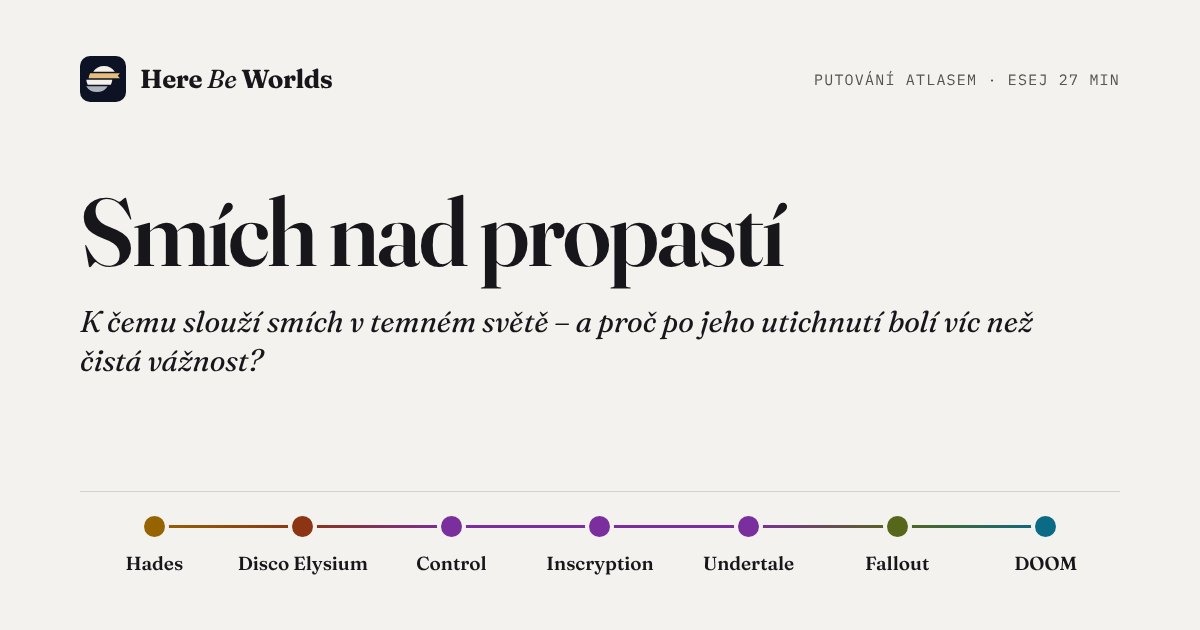
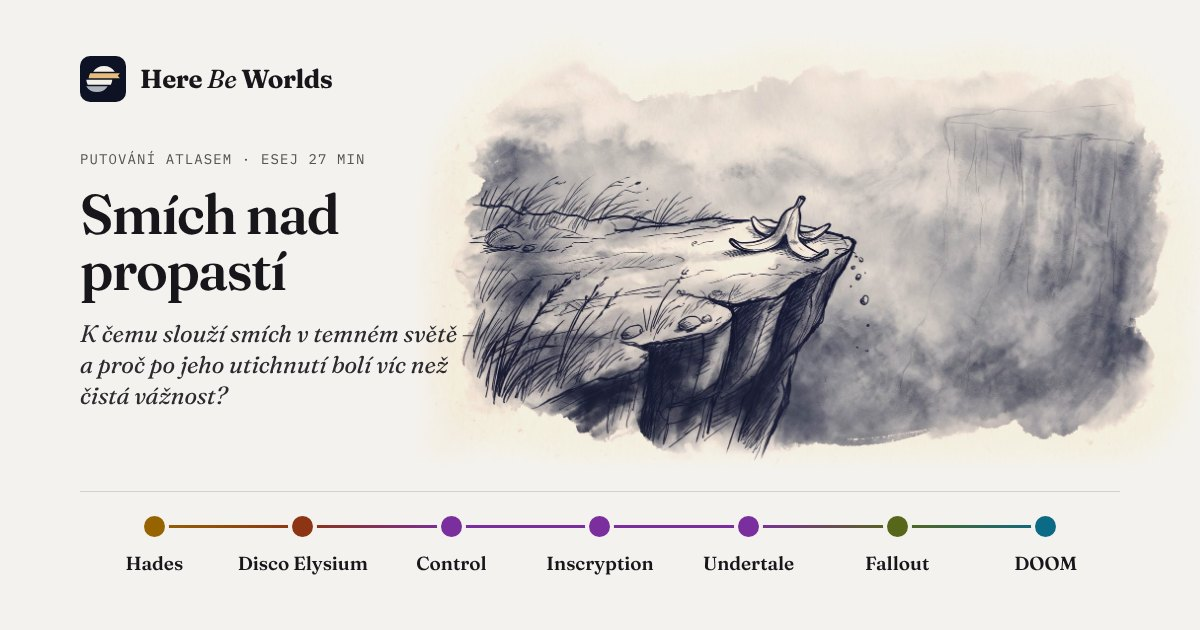
Obrázky k putování Smích nad propastí (zatím dva): banánová slupka nad propastí, ostnatý plot s girlandami; pravidlo proti ujíždění stylu v docs
Claude-Session: https://claude.ai/code/session_01B7obWLKHHEWxurZ5a1svnf

diff --git a/src/lib/trail-images.ts b/src/lib/trail-images.ts
@@ -27,6 +27,7 @@ export const READY: Record<TrailId, number> = {
   'free-will': 3,
   'failed-paradise': 3,
   corporate: 3,
+  laughter: 2,
 };
 
 const DIR = 'putovani-obrazky';

diff --git a/docs/obrazky-putovani.md b/docs/obrazky-putovani.md
@@ -11,8 +11,9 @@ Stav 2026-11-23: styl nalezený po pěti kolech zkoušek (náhled `/putovani/nav
 - **Jedna myšlenka, malý předmět (majitel 2026-11-23, po nepovedeném kole Uvězněni v kruhu):** velké přeplněné scény (had s průvodem poutníků, nekonečné schodiště, ptačí klec se světem, koleje s planetami) majitel zamítl jako tematicky nesevřené a „poznat, že je to AI“. Nosná je jedna myšlenka na jednom malém předmětu nebo polocelku (vzor: kamenné víčko, žebřík opřený o nebe, gramofon). Vedlejší motivy jen tam, kde tvoří hlavní tvar (most z kořenů, copů a prádla), ne jako zástup figurek a symbolů.
 - **Víc motivů k objevování:** hlavní tvar ať je složený z několika nečekaných předmětů, které člověk objeví až při delším pohledu (vzor: most z dlažby, kořenů, copů a šňůr s prádlem; majitel 2026-11-23). Jen když dávají jednomu tvaru smysl, nikdy jako výčet symbolů tématu.
 - **Zadání pro motivy: odvaha, surrealismus, silná myšlenka (majitel 2026-11-26, po Logu nad troskami, „zdaleka nejlepší série“):** motivy střídat a nebát se odvážných, i absurdních nápadů, i když se špatně převádějí do obrázku. Surrealisticky, ne doslovně; obraz má mít rafinovanost a silnou myšlenku, klidně i složitější. Majiteli se líbí satira a ironie. Co fungovalo: obyčejný, všem známý předmět nebo stavba na špatném místě nebo z nepatřičné látky, takže z něj je paradox, který se čte na první pohled (parkovací automaty místo náhrobků, atomový hřib jako kancelářská budova s trávníkem, mraky na provázku s cenovkou), a jedna velká čitelná silueta. Nevyšlo: guma (vypadala jako pilulka, vygumovaná půlka zůstala nakreslená) a razítko (otisk jako položená fotka). Gemini nezvládá změnu jednoho obrazu ve druhý na ploše, zvládá předmět na nečekaném místě.
+- **Styl neujíždět (majitel 2026-11-26, u Smíchu nad propastí):** styl držet podle série Logo nad troskami. Ve scéně nejmenovat barvy ani materiály (ne „červený provaz“, „rezavý stůl“, „lesklé balonky“, „mosazný zvonek“): Gemini je bere doslova a přebijí monochromní tuš. Scéna dvě až tři věty, hlavní tvar a jeden detail, ne výčet předmětů; dlouhá scéna táhne kresbu k čisté komiksové ilustraci a mlha mizí. Pokaždé nový chat a vždy stejný vzor `25-styl-vicko.jpg`, nikdy nový obrázek jako vzor. Do Avoid patří „cartoon, comic-book style, glossy highlights, clean digital outlines“.
 - **Neopakovat se, nečekaný znepokojivý detail (majitel 2026-11-25, u Prokletého dědictví):** napříč putováními se začaly opakovat stejné rekvizity (klíčky, zrcadla, obrazy, botičky, stopy) a majitel to zamítl: „chce to přijít s něčím nečekaným, a o to víc znepokojivým, musí tam být nějaký nečekaný moment, detail“. Vzor: kolébka s korunou, jejíž stín na zdi je rakev. Postup: obyčejný předmět (domácí, dětský, rodinný), který na první pohled nic nenaznačuje, a jediný detail, který ho na druhý pohled převrátí. Před návrhem motivů projít seznam níže a nesáhnout po ničem, co v něm už je; když se rekvizita přece jen hodí, říct to majiteli předem. Témata smějí být temná a zlověstná, bez krve a násilí (v promptu `Avoid: … gore`; u temných putování Mood „ominous surrealism … heavy with dread“ místo „quiet“).
-- **Už použité rekvizity (doplňovat po každém putování):** klíče a klíčové dírky (klíč stočený do kruhu, měsíc jako klíčová dírka) · zrcadla (rukavice a zrcátko, zamlžené zrcadlo) · obrazy a rámy (stín, který vypadl z obrazu) · boty a stopy (stopy ve sněhu, prázdné boty u žebříku) · prázdné oděvy (plášť na trůnu, kabát ukazující cestu, rukavice) · žebra a kosti jako stavivo (katedrála ze žeber, jablko se žebry) · trůny (plášť na trůnu, trůn s břízou) · knihy, deníky a dopisy (postavička z knihy, můra z deníku, dopisy z hlavy sochy, hranice srolovaných dopisů) · hodiny (kavalerie z rozbitých hodin) · světla (lucerna, svíčka, oheň u gramofonu) · koště a brky (koště z brků) · kouř (sirka z kouře, beránek z kouře) · nábytek a pokoje (křesla za sklem, okno s pokojem na pláni, koberec nad jámou) · stín jako odhalení (stín klíče, stín z obrazu, stín chapadel u pulce, stín rakve u kolébky) · ostatní: městečko na jevišti s roztrženým nebem, vajíčko ve vajíčku, kamenné víčko, domy otáčející se za chodcem, most z dlažby, kořenů, copů a prádla, prapory z hejn ptáků, kolotoč z děl, žebřík opřený o nebe, gramofon s hvězdami, sklenice s pulcem, mince na hraně, řetěz s dětským poutem, šperkovnice s mléčnými zuby, koleje a výhybka (smyčka jako oko), obojek s vodítkem do mraků, trhací kalendář s prázdnými listy, hostina v dunách, schodiště zpět do země, zazděný oblouk s pěšinou kolem, atomový hřib jako budova, parkovací automaty jako náhrobky, mraky na provázku s cenovkami (a kolébka v seznamu stínů). Zkoušené a zamítnuté u svobodné vůle: hrací skříňka s baletkou, kostka ve vzduchu, piliny s magnetem (třikrát nevyšlo), budka zatlučená zevnitř. U Ráje: hradby obrácené dovnitř (vyšel obyčejný hrad), maják na dně (vypadá jako zatopený katastrofou), ráj pod skleněným zvonem (vypadá jako sněžítko), fontána s pískem (písek vypadá jako voda), kryt s pentlí (dveře jako trezor z Falloutu). U Loga nad troskami: guma (pilulka), razítko (otisk jako fotka), mravenčí farma s byty (doslovná, záloha). Poučení (majitel 2026-11-25): u celků musí být paradox hlavní tvar a číst se na první pohled; nic ze skutečného světa (Vítězný oblouk z Paříže zamítnut).
+- **Už použité rekvizity (doplňovat po každém putování):** klíče a klíčové dírky (klíč stočený do kruhu, měsíc jako klíčová dírka) · zrcadla (rukavice a zrcátko, zamlžené zrcadlo) · obrazy a rámy (stín, který vypadl z obrazu) · boty a stopy (stopy ve sněhu, prázdné boty u žebříku) · prázdné oděvy (plášť na trůnu, kabát ukazující cestu, rukavice) · žebra a kosti jako stavivo (katedrála ze žeber, jablko se žebry) · trůny (plášť na trůnu, trůn s břízou) · knihy, deníky a dopisy (postavička z knihy, můra z deníku, dopisy z hlavy sochy, hranice srolovaných dopisů) · hodiny (kavalerie z rozbitých hodin) · světla (lucerna, svíčka, oheň u gramofonu) · koště a brky (koště z brků) · kouř (sirka z kouře, beránek z kouře) · nábytek a pokoje (křesla za sklem, okno s pokojem na pláni, koberec nad jámou) · stín jako odhalení (stín klíče, stín z obrazu, stín chapadel u pulce, stín rakve u kolébky) · ostatní: městečko na jevišti s roztrženým nebem, vajíčko ve vajíčku, kamenné víčko, domy otáčející se za chodcem, most z dlažby, kořenů, copů a prádla, prapory z hejn ptáků, kolotoč z děl, žebřík opřený o nebe, gramofon s hvězdami, sklenice s pulcem, mince na hraně, řetěz s dětským poutem, šperkovnice s mléčnými zuby, koleje a výhybka (smyčka jako oko), obojek s vodítkem do mraků, trhací kalendář s prázdnými listy, hostina v dunách, schodiště zpět do země, zazděný oblouk s pěšinou kolem, atomový hřib jako budova, parkovací automaty jako náhrobky, mraky na provázku s cenovkami, banánová slupka nad propastí, ostnatý plot s girlandami a balonky (a kolébka v seznamu stínů). Zkoušené a zamítnuté u svobodné vůle: hrací skříňka s baletkou, kostka ve vzduchu, piliny s magnetem (třikrát nevyšlo), budka zatlučená zevnitř. U Ráje: hradby obrácené dovnitř (vyšel obyčejný hrad), maják na dně (vypadá jako zatopený katastrofou), ráj pod skleněným zvonem (vypadá jako sněžítko), fontána s pískem (písek vypadá jako voda), kryt s pentlí (dveře jako trezor z Falloutu). U Smíchu nad propastí: pochod natahovacích zubů a jednokolka na girlandě přes rokli (dobré, ale znovu skály a propast), čertík v krabičce (barevný), kartotéka s vesmírem (digitální jiskry), past s konfetami, plynová maska s úsměvem, socha v šaškovské čepici (komiks), přepážka v bouři (červený provaz), balonkový pes v pitevně (lesklý). U Loga nad troskami: guma (pilulka), razítko (otisk jako fotka), mravenčí farma s byty (doslovná, záloha). Poučení (majitel 2026-11-25): u celků musí být paradox hlavní tvar a číst se na první pohled; nic ze skutečného světa (Vítězný oblouk z Paříže zamítnut).
 - **Světlo:** výchozí je **čistě modrá tuš bez zlaté**. Zlatá (#E5BE7E) jen výjimečně, když ji řádek scény výslovně jmenuje a je jádrem motivu (klíčová dírka na nebi, oheň u gramofonu). Gemini jinak zlatou přidává sám (okénka, lucerny), protože ji má vzorový obrázek: proto prompt výslovně zakazuje převzít lampu ze vzoru (majitel 2026-11-23: „pořád stejné rozsvícené okýnko a lucerna“).
 - **Motiv:** detail nebo polocelek, ne velká scéna. Obraz s druhým čtením: na první pohled obyčejný, na druhý nese otázku eseje. Prázdný prostor kolem.
 - **Nikdy:** text, písmena, podpisy, rámečky; postavy, loga a místa z her; náboženské symboly; lidé (nanejvýš drobná postava zezadu, když to motiv potřebuje); cákance tuše; airbrush; uhlazená digitální linka.
@@ -24,7 +25,7 @@ Stav 2026-11-23: styl nalezený po pěti kolech zkoušek (náhled `/putovani/nav
 - Masky: `maska/<slug>-N.png` podle tuše pro tmavý motiv (`python3 scripts/ink-masks.py`, pak zkopírovat z `navrh-obrazku/maska/`, nebo upravit cestu ve skriptu), `maska/freska.png` obecná.
 - Které putování obrázky má: `READY` v `src/lib/trail-images.ts`. Obrázky se ukážou jen u schválené eseje.
 - Rejstřík `/putovani/` má rozvržení karet ve dvou sloupcích s obrázkem nahoře (C, vybráno ze tří variant: A obraz za textem, B střídavé desky). Dokud nemají obrázky všechna putování, stojí vedle karty s obrázkem textové karty.
-- Na webu (2026-11-23): Hra ví, že ji hraješ (městečko na jevišti s roztrženým namalovaným nebem; postavička vylezlá z ilustrace v knize; stín, který vypadl z obrazu na podlahu); Na mrtvole boha (tři: prázdný plášť na trůnu držený provazy davu; trůn, kterým prorůstá bříza; jablko s žebry místo jádřince); Netvor v zrcadle (zatím jeden: stopy ve sněhu, které se z bot mění v tlapy); Mluví už jen mrtví (tři: prázdný kabát, který ukazuje cestu; můra s křídly z deníku; potopená hlava sochy, z níž stoupají listy dopisu k loďce); Uvězněni v kruhu (tři: klíč stočený do kruhu se stínem rovného klíče; vajíčko ve vajíčku; z kouře dohořelé sirky nová sirka); Bohové jako břemeno (katedrála ze žeber, kamenné víčko); Město, které dýchá (domy, které se otáčejí za chodcem; most z dlažby, kořenů, copů a prádla); Dům, ze kterého nejde odejít (měsíc jako zlatá klíčová dírka nad městečkem, okno uprostřed pláně s pokojem uvnitř). Válka, kterou nikdo nevyhraje (tři obrázky: prapory z hejn ptáků, kolotoč z děl, kavalerie z rozbitých hodin se svíčkou v temnu); Pod lhostejnými hvězdami (žebřík opřený o nebe s prázdnými botami a lucernou, gramofon, ze kterého se sypou hvězdy, u táboráku); Kdo za to může? (tři: prázdná rukavice ukazuje na zrcátko a odraz ukazuje zpět na diváka; koberec, pod jehož rohem je jáma se schody a koště z brků; z hranice srolovaných dopisů odplouvá kouř jako spící beránek, 2026-11-25); Kdo se to probudil? (tři: zamlžené zrcadlo nad umyvadlem, v jehož setřeném pruhu je další zrcadlo; dvě stejná křesla v pokoji rozděleném sklem, které prochází mincí na hraně; sklenice s pulcem, jehož stín na zdi jsou chapadla; 2026-11-25); Prokleté dědictví (tři: kolébka s korunou, jejíž stín je rakev, křížek na koruně vyretušovaný; řetěz z praskliny v zemi s otevřeným dětským poutem, hnědý nádech řetězu převedený do indiga; šperkovnice s náhrdelníkem z mléčných zubů; 2026-11-25); Křehká hranice svobodné vůle (tři: koleje shora, které se u výhybky rozdělí a zase spojí kolem kulatého jezírka, takže tvoří oko; prázdný obojek s vodítkem napnutým do mraků; trhací kalendář s prázdnými listy, jeden právě utržený, původně k jinému tématu, majitel ho přidal; 2026-11-25); Ráj, který se nepovedl (tři, poprvé celky místo předmětu, na pokyn majitele velký motiv a paradox: monumentální schodiště, které se v oblouku vrací zpátky do země (titulní, majitel 2026-11-26); nekonečně dlouhý prostřený stůl v poušti, zavátý dunou; vymyšlený zazděný oblouk se sluncem, kolem jehož boku je v dlažbě vyšlapaná pěšina; 2026-11-25); Logo nad troskami (tři, satira: atomový hřib ztuhlý v kancelářskou budovu s otáčecími dveřmi a ostříhaným trávníkem v troskách; hřbitov, kde místo náhrobků stojí parkovací automaty; opuštěný vozík prodavače mraků na provázcích s prázdnými cenovkami pod holým nebem; 2026-11-26). Postup: 5 motivů, vybrat 2. **Motivy: surrealismus a neobvyklé kompozice, klidně velké měřítko a zachycený pohyb (Magritte, Dalí), neobvyklé spojení předmětů (v duchu Magritta), jen lehce doslovné** — první kolo s doslovnými motivy (tapeta, dveře, kolébka) majitel zamítl jako nenápadité. Do promptu řádek `Mood: subtle surrealism in the spirit of Magritte: one unexpected combination, quiet and uncanny, never literal or explanatory. Rich in discoverable detail: several unexpected secondary motifs are woven into the main forms, so the viewer keeps finding new things on a second look.` Po přidání prvního obrázku obnovit kartu pro sdílení: `npm run og -- <slug> putovani` (fonty a Chromium viz CLAUDE.md). Masky: `python3 scripts/ink-masks.py public/putovani-obrazky/<slug>-1.jpg …`; když je světlý papír uprostřed součástí motivu (mezera mezi konci mostu), přidej `--fill`. Skript dělá dvě masky: `<soubor>.png` pro tmavý motiv a širokou `<soubor>-light.png` pro světlý (papír tam schová multiply a lehké vybělení `brightness(1.06) saturate(0.8)`, maska nesmí zamlžit slabé tahy; majitel 2026-11-23). Ve světlém motivu se v eseji kresba ořezává jen širokou maskou (fresková by ořízla tahy štětce nahoře a stopy u spodního okraje); v tmavém motivu (esej i rejstřík) jen fresková maska: tvar je vždy **zvlněný obdélník do ztracena**, nikdy vykrojený podle skvrn tuše (majitel 2026-11-23). Zkoušený okraj podle tahů štětce se světlým lemem majitel zamítl jako „příliš“: v tmavém motivu okraje nebudou tak působivé jako ve světlém a je to tak správně; v rejstříku zůstává i fresková (obrázek je tam oříznutý na 3 : 2).
+- Na webu (2026-11-23): Hra ví, že ji hraješ (městečko na jevišti s roztrženým namalovaným nebem; postavička vylezlá z ilustrace v knize; stín, který vypadl z obrazu na podlahu); Na mrtvole boha (tři: prázdný plášť na trůnu držený provazy davu; trůn, kterým prorůstá bříza; jablko s žebry místo jádřince); Netvor v zrcadle (zatím jeden: stopy ve sněhu, které se z bot mění v tlapy); Mluví už jen mrtví (tři: prázdný kabát, který ukazuje cestu; můra s křídly z deníku; potopená hlava sochy, z níž stoupají listy dopisu k loďce); Uvězněni v kruhu (tři: klíč stočený do kruhu se stínem rovného klíče; vajíčko ve vajíčku; z kouře dohořelé sirky nová sirka); Bohové jako břemeno (katedrála ze žeber, kamenné víčko); Město, které dýchá (domy, které se otáčejí za chodcem; most z dlažby, kořenů, copů a prádla); Dům, ze kterého nejde odejít (měsíc jako zlatá klíčová dírka nad městečkem, okno uprostřed pláně s pokojem uvnitř). Válka, kterou nikdo nevyhraje (tři obrázky: prapory z hejn ptáků, kolotoč z děl, kavalerie z rozbitých hodin se svíčkou v temnu); Pod lhostejnými hvězdami (žebřík opřený o nebe s prázdnými botami a lucernou, gramofon, ze kterého se sypou hvězdy, u táboráku); Kdo za to může? (tři: prázdná rukavice ukazuje na zrcátko a odraz ukazuje zpět na diváka; koberec, pod jehož rohem je jáma se schody a koště z brků; z hranice srolovaných dopisů odplouvá kouř jako spící beránek, 2026-11-25); Kdo se to probudil? (tři: zamlžené zrcadlo nad umyvadlem, v jehož setřeném pruhu je další zrcadlo; dvě stejná křesla v pokoji rozděleném sklem, které prochází mincí na hraně; sklenice s pulcem, jehož stín na zdi jsou chapadla; 2026-11-25); Prokleté dědictví (tři: kolébka s korunou, jejíž stín je rakev, křížek na koruně vyretušovaný; řetěz z praskliny v zemi s otevřeným dětským poutem, hnědý nádech řetězu převedený do indiga; šperkovnice s náhrdelníkem z mléčných zubů; 2026-11-25); Křehká hranice svobodné vůle (tři: koleje shora, které se u výhybky rozdělí a zase spojí kolem kulatého jezírka, takže tvoří oko; prázdný obojek s vodítkem napnutým do mraků; trhací kalendář s prázdnými listy, jeden právě utržený, původně k jinému tématu, majitel ho přidal; 2026-11-25); Ráj, který se nepovedl (tři, poprvé celky místo předmětu, na pokyn majitele velký motiv a paradox: monumentální schodiště, které se v oblouku vrací zpátky do země (titulní, majitel 2026-11-26); nekonečně dlouhý prostřený stůl v poušti, zavátý dunou; vymyšlený zazděný oblouk se sluncem, kolem jehož boku je v dlažbě vyšlapaná pěšina; 2026-11-25); Logo nad troskami (tři, satira: atomový hřib ztuhlý v kancelářskou budovu s otáčecími dveřmi a ostříhaným trávníkem v troskách; hřbitov, kde místo náhrobků stojí parkovací automaty; opuštěný vozík prodavače mraků na provázcích s prázdnými cenovkami pod holým nebem; 2026-11-26); Smích nad propastí (zatím dva: banánová slupka na samé hraně útesu nad propastí; ostnatý plot se strážní věží vyzdobený girlandami a balonky, jeden balonek splasklý na ostnu; 2026-11-26). Postup: 5 motivů, vybrat 2. **Motivy: surrealismus a neobvyklé kompozice, klidně velké měřítko a zachycený pohyb (Magritte, Dalí), neobvyklé spojení předmětů (v duchu Magritta), jen lehce doslovné** — první kolo s doslovnými motivy (tapeta, dveře, kolébka) majitel zamítl jako nenápadité. Do promptu řádek `Mood: subtle surrealism in the spirit of Magritte: one unexpected combination, quiet and uncanny, never literal or explanatory. Rich in discoverable detail: several unexpected secondary motifs are woven into the main forms, so the viewer keeps finding new things on a second look.` Po přidání prvního obrázku obnovit kartu pro sdílení: `npm run og -- <slug> putovani` (fonty a Chromium viz CLAUDE.md). Masky: `python3 scripts/ink-masks.py public/putovani-obrazky/<slug>-1.jpg …`; když je světlý papír uprostřed součástí motivu (mezera mezi konci mostu), přidej `--fill`. Skript dělá dvě masky: `<soubor>.png` pro tmavý motiv a širokou `<soubor>-light.png` pro světlý (papír tam schová multiply a lehké vybělení `brightness(1.06) saturate(0.8)`, maska nesmí zamlžit slabé tahy; majitel 2026-11-23). Ve světlém motivu se v eseji kresba ořezává jen širokou maskou (fresková by ořízla tahy štětce nahoře a stopy u spodního okraje); v tmavém motivu (esej i rejstřík) jen fresková maska: tvar je vždy **zvlněný obdélník do ztracena**, nikdy vykrojený podle skvrn tuše (majitel 2026-11-23). Zkoušený okraj podle tahů štětce se světlým lemem majitel zamítl jako „příliš“: v tmavém motivu okraje nebudou tak působivé jako ve světlém a je to tak správně; v rejstříku zůstává i fresková (obrázek je tam oříznutý na 3 : 2).
 
 ## Jak generovat
 

diff --git a/CLAUDE.md b/CLAUDE.md
@@ -83,7 +83,7 @@ Kroniky a eseje **nejsou** v `data/`.
 | `/notes/` | `src/pages/notes/index.astro` | `NotesPage` — obsah oddílů (lepí se pod hlavičku, oddíl, který čteš, je podtržený; na telefonu jeden řádek posuvný do strany, 2026-11-25), rejstříkový seznam pojmů (štítek vlevo, výklad vpravo), legenda 1–5 jako pruh os; oddíly Charakter světa · Profil světa · Triáda (tři pojmy s odkazy do Anatomie a do Galerie triád / Mapy neznáma, pod nimi typy hříchů, dilemata, druhy tajemství a kdo drží mezeru s ikonami – texty z `triad-types.json`, 2026-11-24 se souhlasem majitele) · Příbuznost světů (4 pilíře, 5 stupňů slovy, bez procent) · Kompas a ladění · Hlubina času (2026-11-25 s pokynem majitele: šest pojmů – sloupec a hladina, období her a rysky, dějiny a fundamentální události, odhad, mýtus a cyklus, stupnice, naše časová osa – a odkaz na stránku; `noteDeepTime*`) · Kánon (texty v `data/meta/notes.ts`) |
 | `/anatomie-herniho-lore/` | `src/pages/anatomie-herniho-lore/index.astro` | `EssayPage` (obsah `ReadingToc` vlevo, čtecí sloupec jako kronika, doba čtení pod podtitulem) |
 | `/teoreticke-zazemi/` | `src/pages/teoreticke-zazemi/index.astro` | `EssayPage` z `content/essays/teoreticke-zazemi.md`: prameny atlasu po oblastech (fikční světy, fantastika, herní studia, hrůza a posvátno, mýtus, paměť, osoba a identita, moc a dohled, dílna tvůrců), tabulka pojmů, výhrady k autorům, co by sem ještě patřilo, seznam literatury. Odkaz z Anatomie (oddíl Na čem metoda stojí) a z patičky. **Po zapracování nové knihy doplnit i sem.** |
-| `/putovani/` | `src/pages/putovani/index.astro` | `TrailsIndex` (`src/components/trails/`, styly `trails.css`): hlavička jako atlas, filtry **Svět** a **Téma** (rozsvítí stezky, kterými svět prochází / které se tématu dotýkají, ostatní ztlumí; `?svet=<id>`, `?tema=<slug>`; klik na téma v řádku dělá totéž, jméno světa v kartě vede rovnou na spis světa (majitel 2026-11-24)); rejstřík 22 stezek jako **karty ve dvou sloupcích** (rozvržení C, majitel 2026-11-23; karta: obrázek nahoře přes celou šířku karty do ztracena, 3 : 2, pak název, popis, světy s linkou v barvě archetypu nad každým jménem, témata eseje jako hranaté štítky na tónovaném podkladu (vybrané téma v akcentu) = `themes` v `trails.ts`, 2–4 na stezku, a za nimi „Esej · N min“; karta bez obrázku je jen text; na telefonu jeden sloupec); oddíl **Kde se stezky kříží** (mřížka stezky × všechny světy podle abecedy, i ty na jediné stezce, vpravo počet (majitel 2026-11-22), tečka v barvě archetypu, pod kurzorem se rozsvítí sloupec i řádek, názvy stezek nahoře i dole; na telefonu seznam dvanácti nejvíc křížených světů). V hlavičce webu odkaz Putování hned za Atlasem; Putování dne na titulní straně vedou na stránky putování. Staré adresy `/stezky/…` přesměrovávají (`src/pages/stezky/`, `RedirectPage.astro`). Obrázky k putováním (jediné místo na webu s obrázky): styl a postup `docs/obrazky-putovani.md`, soubory `public/putovani-obrazky/`, seznam `READY` v `src/lib/trail-images.ts`; náhled v rejstříku (`TrailsIndex images`) a v eseji pod úvodním citátem a uprostřed (`EssayPage hero/hero2/heroLive`), okraj do ztracena maskou. Zatím Bohové jako břemeno, Dům, ze kterého nejde odejít, Pod lhostejnými hvězdami, Válka, kterou nikdo nevyhraje, Město, které dýchá, Uvězněni v kruhu, Mluví už jen mrtví, Netvor v zrcadle, Na mrtvole boha, Hra ví, že ji hraješ, Kdo za to může?, Kdo se to probudil?, Prokleté dědictví, Křehká hranice svobodné vůle, Ráj, který se nepovedl a Logo nad troskami. Zkušební náhled `/putovani/navrh-obrazku/` (noindex). |
+| `/putovani/` | `src/pages/putovani/index.astro` | `TrailsIndex` (`src/components/trails/`, styly `trails.css`): hlavička jako atlas, filtry **Svět** a **Téma** (rozsvítí stezky, kterými svět prochází / které se tématu dotýkají, ostatní ztlumí; `?svet=<id>`, `?tema=<slug>`; klik na téma v řádku dělá totéž, jméno světa v kartě vede rovnou na spis světa (majitel 2026-11-24)); rejstřík 22 stezek jako **karty ve dvou sloupcích** (rozvržení C, majitel 2026-11-23; karta: obrázek nahoře přes celou šířku karty do ztracena, 3 : 2, pak název, popis, světy s linkou v barvě archetypu nad každým jménem, témata eseje jako hranaté štítky na tónovaném podkladu (vybrané téma v akcentu) = `themes` v `trails.ts`, 2–4 na stezku, a za nimi „Esej · N min“; karta bez obrázku je jen text; na telefonu jeden sloupec); oddíl **Kde se stezky kříží** (mřížka stezky × všechny světy podle abecedy, i ty na jediné stezce, vpravo počet (majitel 2026-11-22), tečka v barvě archetypu, pod kurzorem se rozsvítí sloupec i řádek, názvy stezek nahoře i dole; na telefonu seznam dvanácti nejvíc křížených světů). V hlavičce webu odkaz Putování hned za Atlasem; Putování dne na titulní straně vedou na stránky putování. Staré adresy `/stezky/…` přesměrovávají (`src/pages/stezky/`, `RedirectPage.astro`). Obrázky k putováním (jediné místo na webu s obrázky): styl a postup `docs/obrazky-putovani.md`, soubory `public/putovani-obrazky/`, seznam `READY` v `src/lib/trail-images.ts`; náhled v rejstříku (`TrailsIndex images`) a v eseji pod úvodním citátem a uprostřed (`EssayPage hero/hero2/heroLive`), okraj do ztracena maskou. Zatím Bohové jako břemeno, Dům, ze kterého nejde odejít, Pod lhostejnými hvězdami, Válka, kterou nikdo nevyhraje, Město, které dýchá, Uvězněni v kruhu, Mluví už jen mrtví, Netvor v zrcadle, Na mrtvole boha, Hra ví, že ji hraješ, Kdo za to může?, Kdo se to probudil?, Prokleté dědictví, Křehká hranice svobodné vůle, Ráj, který se nepovedl, Logo nad troskami a Smích nad propastí. Zkušební náhled `/putovani/navrh-obrazku/` (noindex). |
 | `/putovani/[id]/` | `src/pages/putovani/[id].astro` | Stránka každého putování, adresa = český slug z `TRAIL_SLUGS` (`trails.ts`), stejný jako soubor eseje v `content/trails/`. `EssayPage` s `trail`: pod hlavičkou `TrailCast` (světy) a `TrailThemes` (témata → `/putovani/?tema=`), před Zdroji `TrailWorlds` (souřadnice s výraznými názvy, seznam světů s archetypem a podžánrem). **Esej se ukáže jen s `approved: true` ve frontmatteru** (schvaluje majitel); jinak stránka ukáže rámeček „Esej připravujeme“, Světy putování a oddíl „Na čem putování stojí“ (jména pramenů z tabulky Prameny podle stezek v `docs/prameny/README.md`, `trailSources` v `src/lib/trail-pages.ts`). Neschválené eseje mají náhled `/putovani/navrh/<slug>/` (`noindex`, z webu na něj nic nevede). Schválené (2026-11-21): `na-mrtvole-boha`, `kdo-za-to-muze`, `kdo-se-to-probudil`, `netvor-v-zrcadle`, `mluvi-uz-jen-mrtvi`, `bohove-jako-bremeno`, `valka-kterou-nikdo-nevyhraje`, `proklete-dedictvi`, `krehka-hranice-svobodne-vule`, `uvezneni-v-kruhu`, `hra-vi-ze-ji-hrajes`, `raj-ktery-se-nepovedl`, `logo-nad-troskami`, `smich-nad-propasti`, `mesto-ktere-dycha`, `pod-lhostejnymi-hvezdami`, `kdo-drzi-kroniku`, `kopie-bez-originalu`, `dum-ze-ktereho-nejde-odejit`, `prace-ktera-nikdy-nekonci`, `jmeno-jako-klic-i-kletba`, `nakaza-s-vlastni-vuli` (všech 22). |
 | `/temata/` | `src/pages/temata/index.astro` | `ThemesIndex` (`src/components/themes/`, styly `themes.css`, 2026-11-24): pás hlavičky, řazení Podle abecedy / Podle počtu světů, rejstřík témat ve dvou sloupcích (název → stránka tématu, otázka kurzívou, otisk světů jako čtverečky v barvě archetypu, počet světů a putování) a **Kde se témata potkávají** (trojúhelníková mřížka téma × téma, kruh podle počtu světů s oběma tématy, prázdné šrafované, najetí rozsvítí řádek i sloupec a vypíše dvojici; na telefonu skrytá). |
 | `/temata/[slug]/` | `src/pages/temata/[slug].astro` | `ThemePage`, adresa = český název bez diakritiky (`themePageSlug` v `src/lib/themes.ts`). Hlavička v pásu: štítek „Téma“ (odkaz na rejstřík), název, otázka, „N světů · N archetypů · N putování“, vpravo **obloha z titulní strany v tuši** (`ThemeSky`; hvězdy na stejných místech díky `src/lib/sky.ts`, světy tématu rozsvícené v barvě archetypu a spojené přerušovanou nejkratší trasou, ostatní tlumeně; najetí na hvězdu ukáže jméno). Oddíly: **Světy** (záznamy ve třech sloupcích: linka v barvě archetypu, název, archetyp · podžánr, jádro kurzívou; najetí rozsvítí hvězdu) · **Podoba tématu** (Archetypy: řádek na archetyp, čtverečky = všechny jeho světy, plné = s tématem; Souřadnice: `AxisRange` s prázdným kosočtvercem průměru celého atlasu `reference`) · **Putování** (putování s tématem v `trails.ts` `themes`, první obrázek přes masku, otázka eseje, trasa světů, světy tématu tučně) · **Potkává se s** (šest témat nejčastěji ve stejných světech, `neighbourThemes`; není to příbuznost světů) · odkazy Otevřít v atlasu · Všechna témata. Podklady skládá při sestavení `src/lib/theme-pages.ts`. Odkazy na stránky témat: hledání (lupa), atlas (Další pohledy a „O tématu …“ pod počtem výsledků při filtru tématu), patička. Témata na kartě světa vedou na stránky témat (majitel 2026-11-24). |
